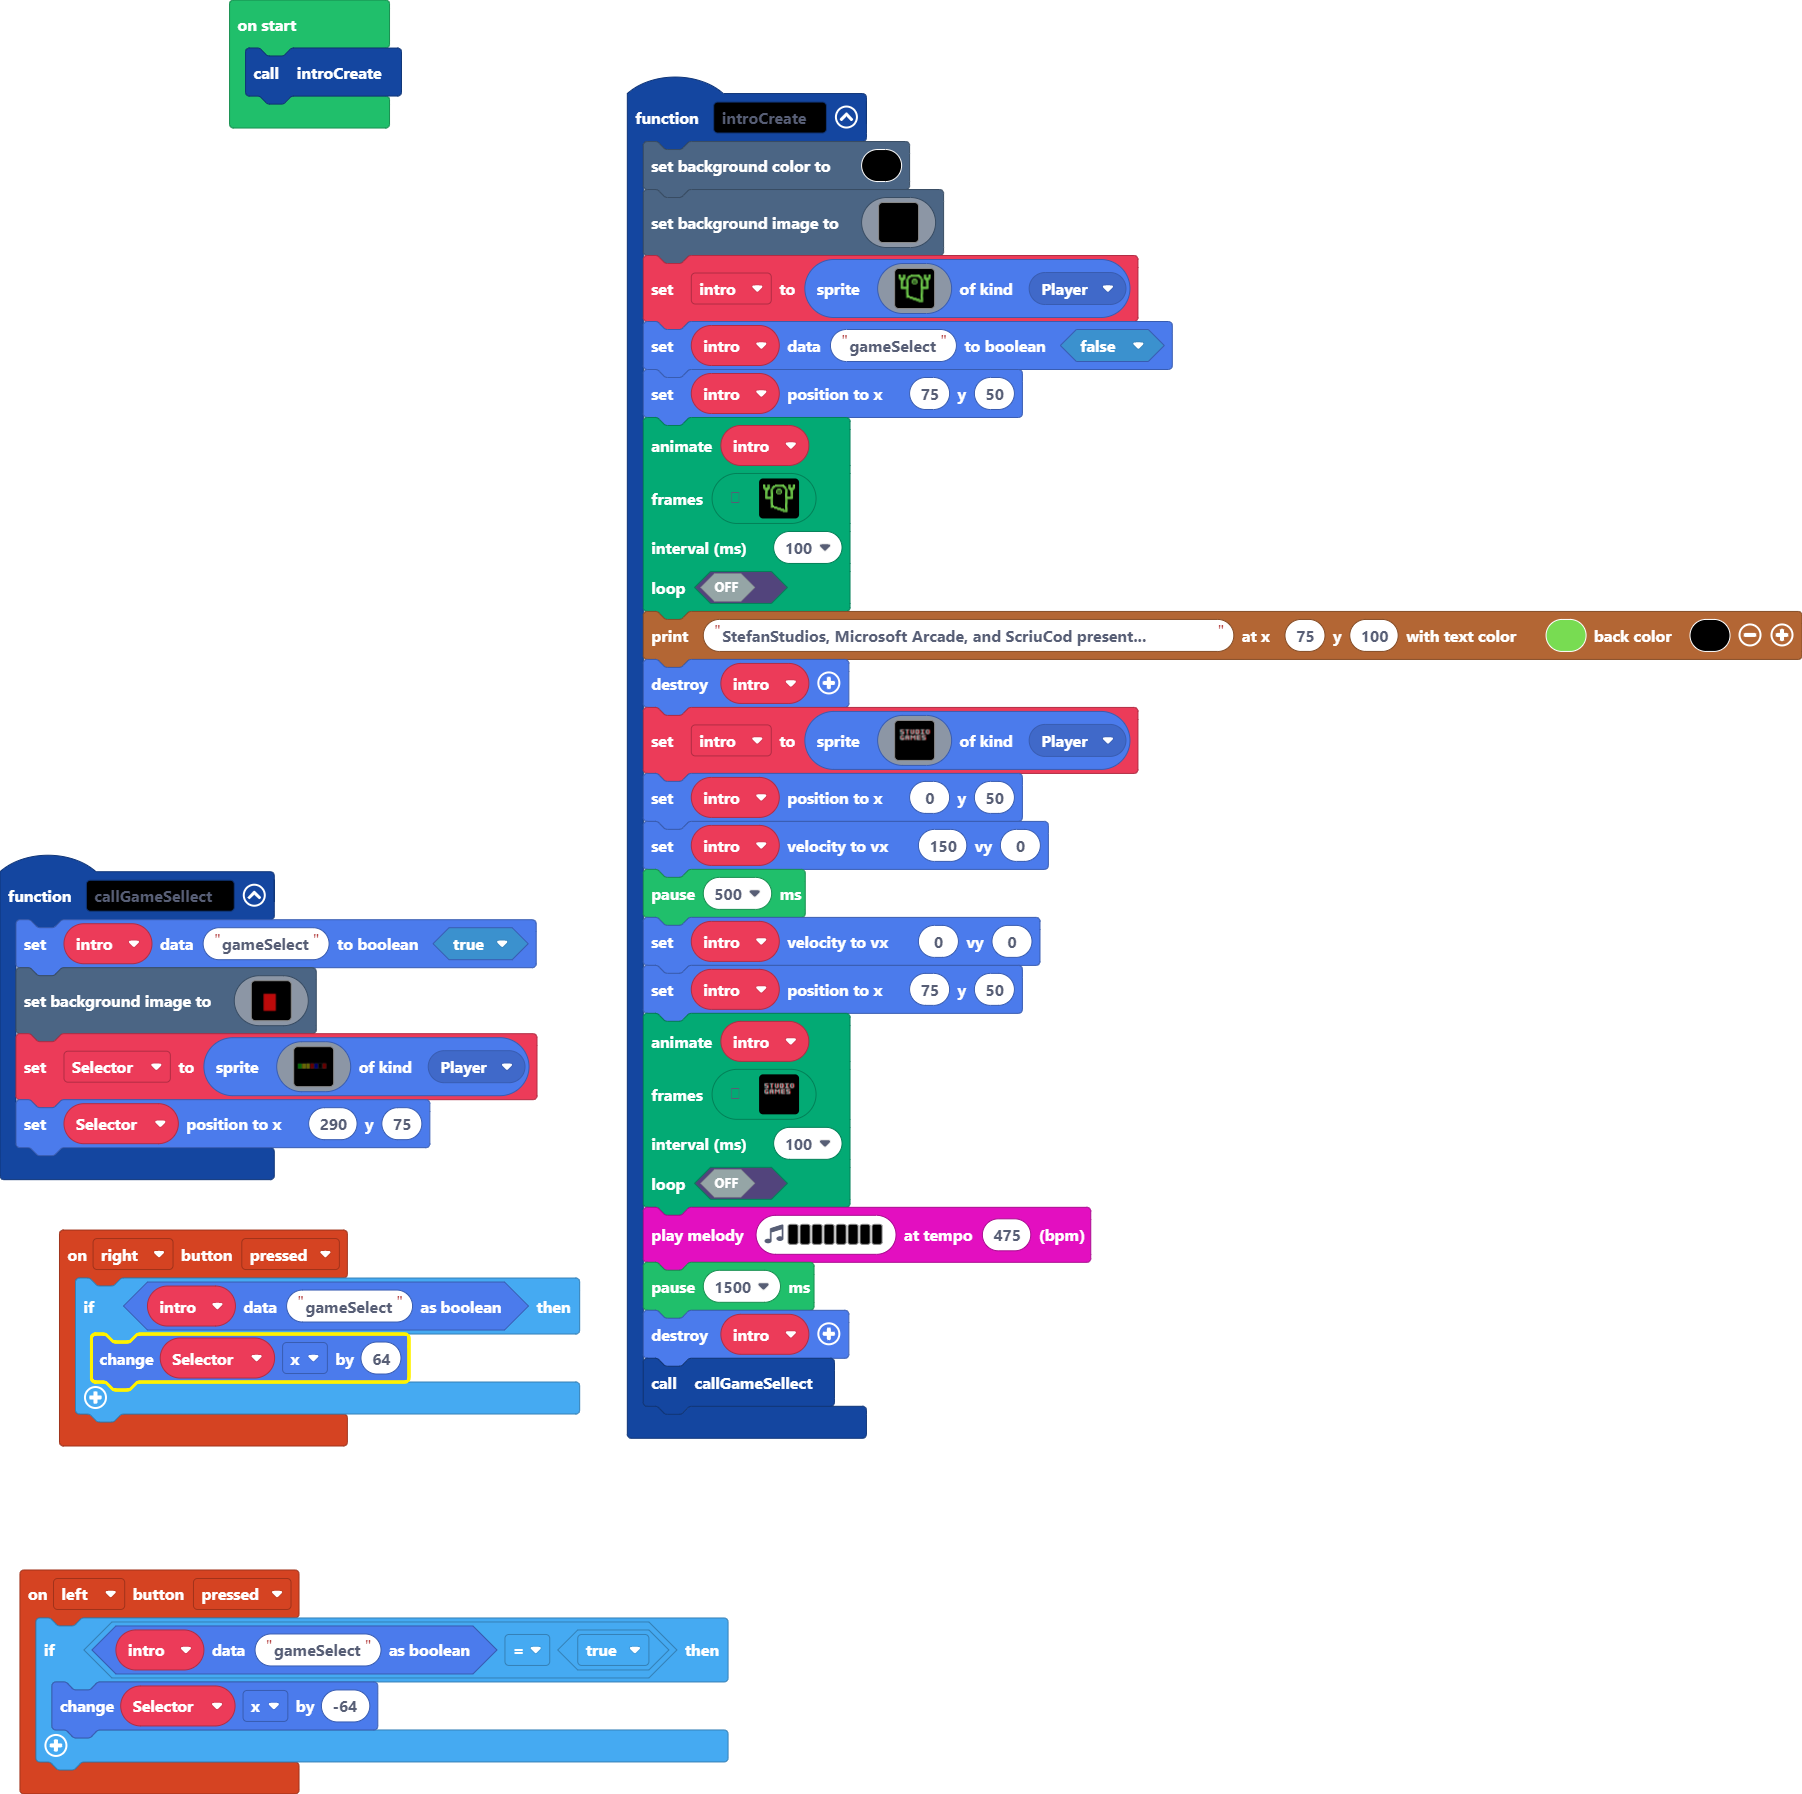
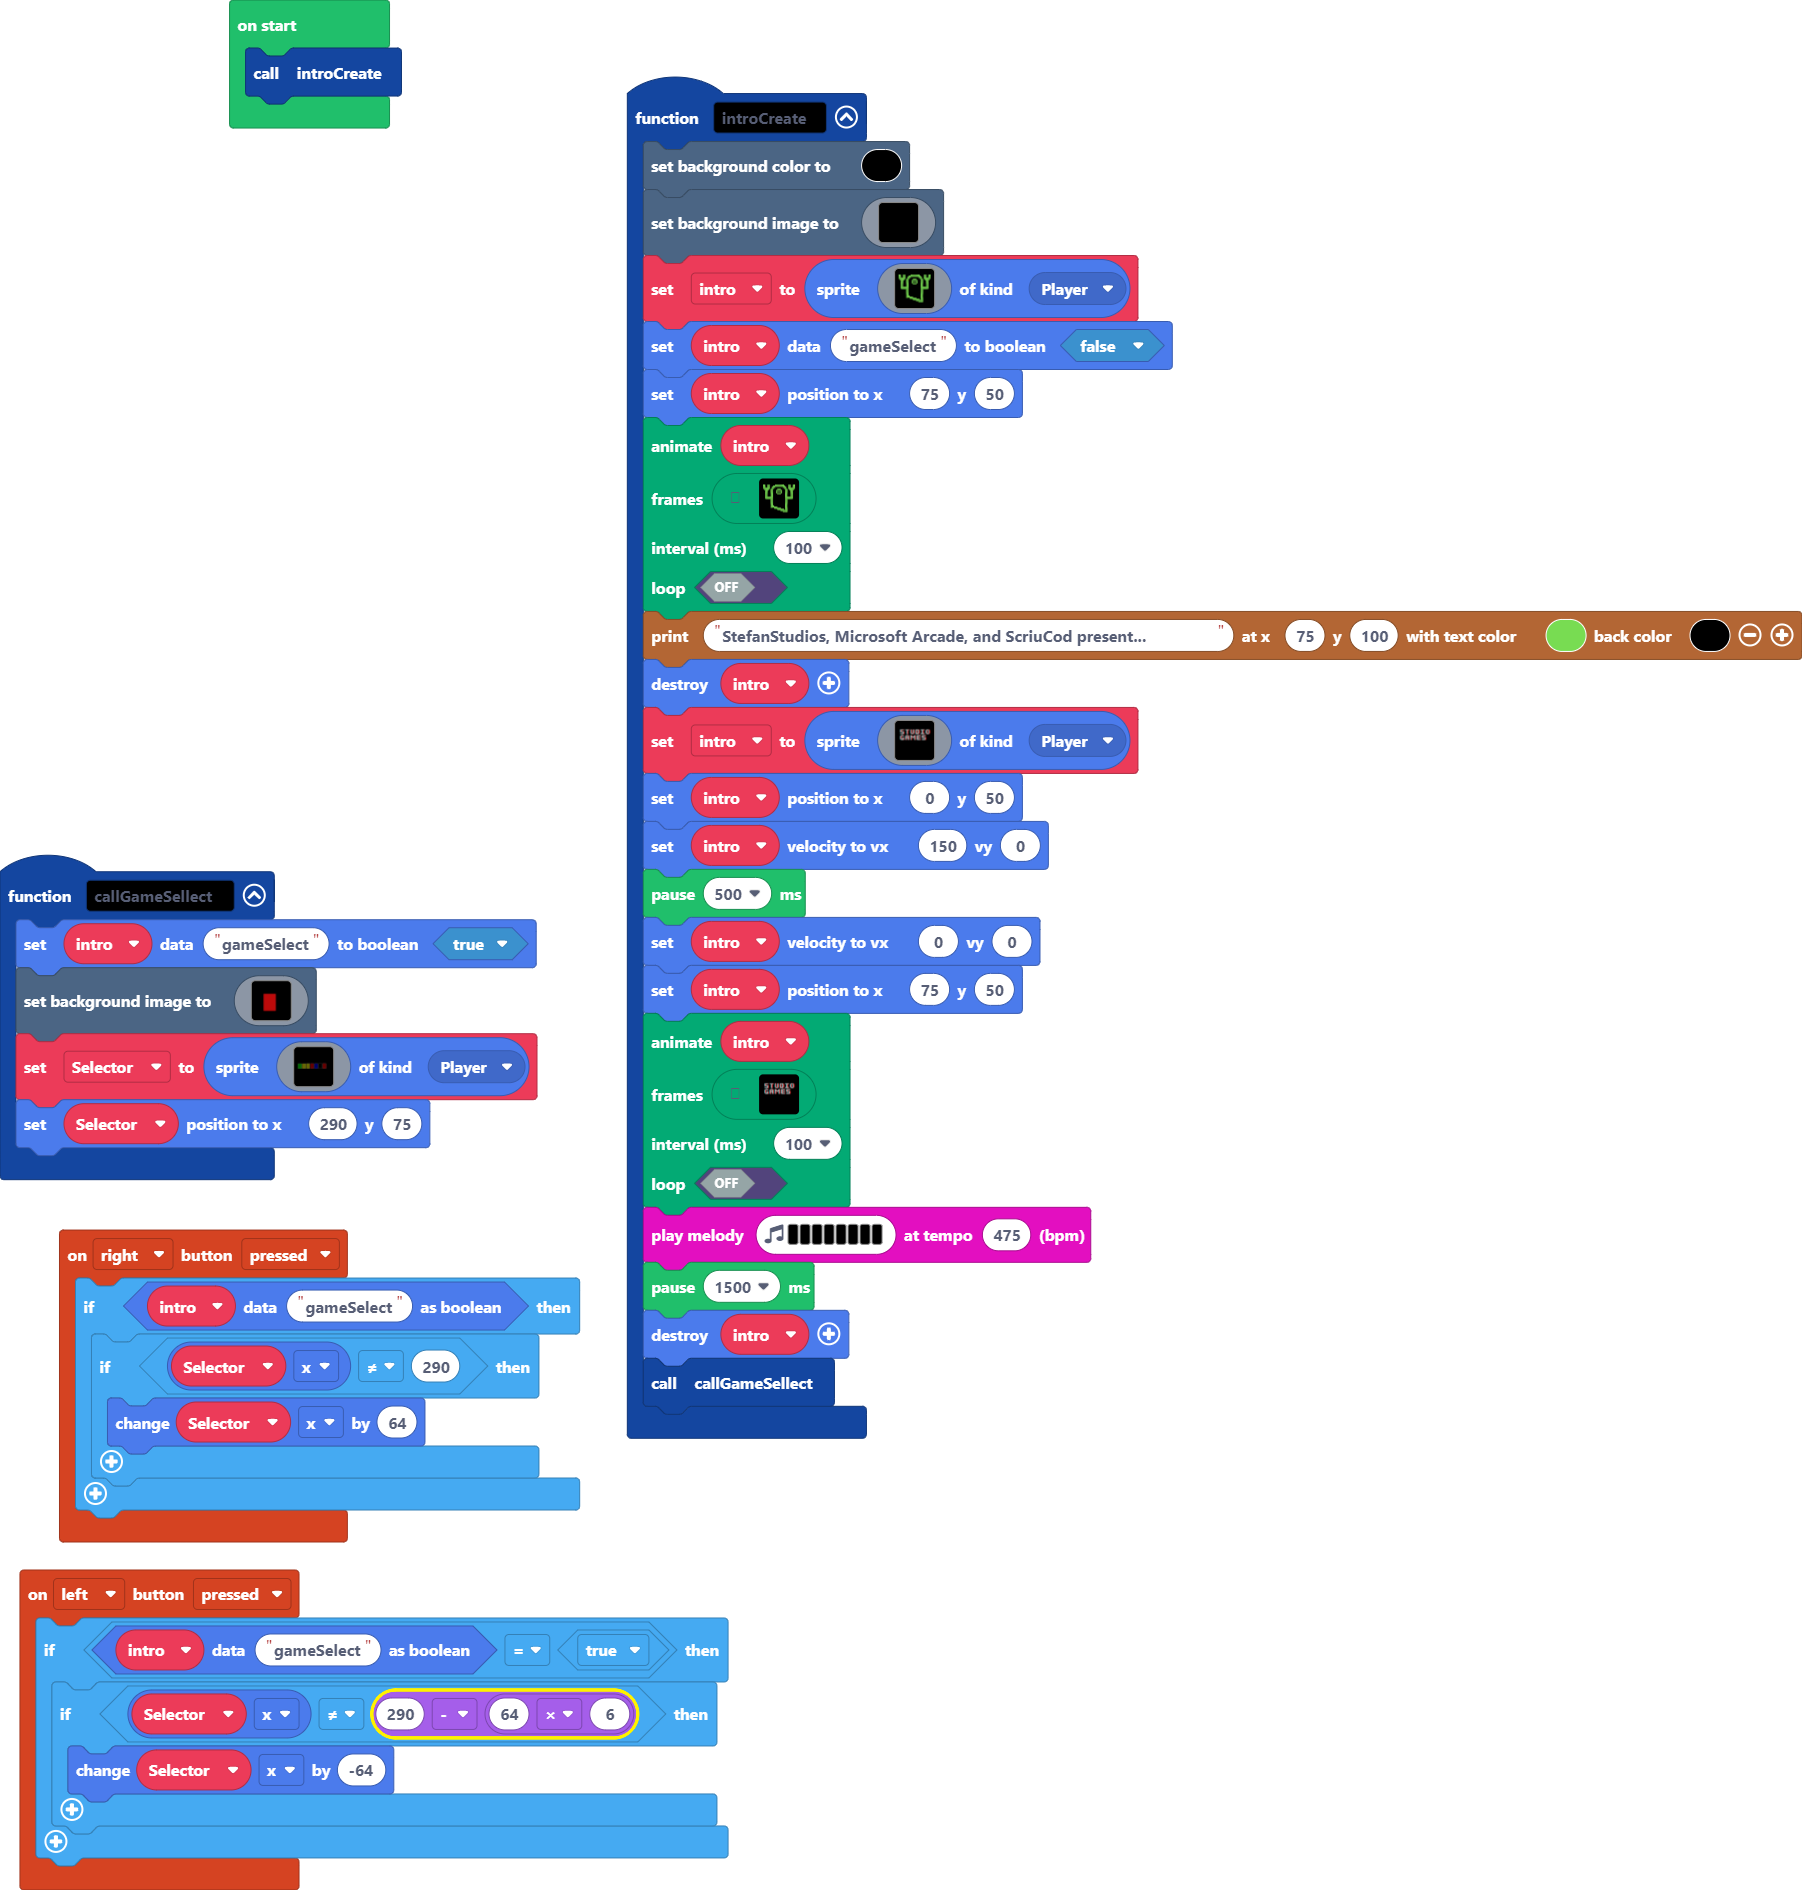
You can not scroll further than the limit.

Changed region(s): [[0.0, 0.0312, 1.0, 0.9989], [0.1243, 0.0, 0.2175, 0.0936]]

diff --git a/main.ts b/main.ts
@@ -1,6 +1,8 @@
 controller.left.onEvent(ControllerButtonEvent.Pressed, function () {
     if (sprites.readDataBoolean(intro, "gameSelect") == true) {
-        Selector.x += -64
+        if (Selector.x != 290 - 64 * 6) {
+            Selector.x += -64
+        }
     }
 })
 function introCreate () {
@@ -1157,7 +1159,9 @@ function introCreate () {
 }
 controller.right.onEvent(ControllerButtonEvent.Pressed, function () {
     if (sprites.readDataBoolean(intro, "gameSelect")) {
-        Selector.x += 64
+        if (Selector.x != 290) {
+            Selector.x += 64
+        }
     }
 })
 function callGameSellect () {
